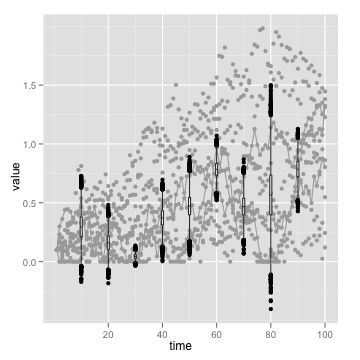
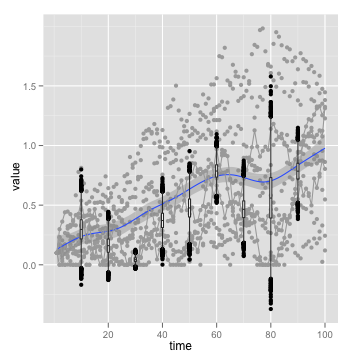
redo figs

diff --git a/monitoring_knit_.md b/monitoring_knit_.md
@@ -142,7 +142,7 @@ SAMPLE=c(3,6,9)
 r.d$mean <- 
 r.m <- melt(r.d, id.vars=c('time'))
 g <- ggplot()+geom_point(aes(time, value), color='darkgrey', data=r.m)
-g <- g+geom_smooth(aes(time,value), data=r.m)
+g <- g+geom_line(aes(time,mean(value)), data=r.m)
 for(time in SAMPLE*10){
   sub.d <- list(tot=t(sample(r.d[time,1:10], size=9)))
   ml.t <- mle2(tot~dnorm(mean=mu, sd=sigma), data=sub.d, start=list(mu=mean(sub.d$tot), sigma=sd(sub.d$tot)))
@@ -160,7 +160,7 @@ end.rcode-->
   
 <!--begin.rcode est-recov-bayes,echo=FALSE,cache=TRUE,warning=FALSE  
 g <- ggplot()+geom_point(aes(time, value), color='darkgrey', data=r.m)
-g <- g+geom_smooth(aes(time,value), data=r.m)
+g <- g+geom_line(aes(time,mean(value)), data=r.m)
 prior <- NULL
 for(time in SAMPLE*10){
   sub.d <- list(tot=t(sample(r.d[time,1:10], size=9)))
@@ -190,6 +190,7 @@ One "population" sampled every 10 units ...
 
 <!--begin.rcode est-recov-lik-trend,echo=FALSE,cache=TRUE,warning=FALSE  
 g <- ggplot()+geom_point(aes(time, value), color='darkgrey', data=r.m)
+g <- g+geom_smooth(aes(time,value), data=r.m)
 g <- g + geom_line(aes(time, pop1), data=r.d, color='darkgrey')
 g <- g + geom_line(aes(time, pop2), data=r.d, color='darkgrey')
 g <- g + geom_line(aes(time, pop3), data=r.d, color='darkgrey')
